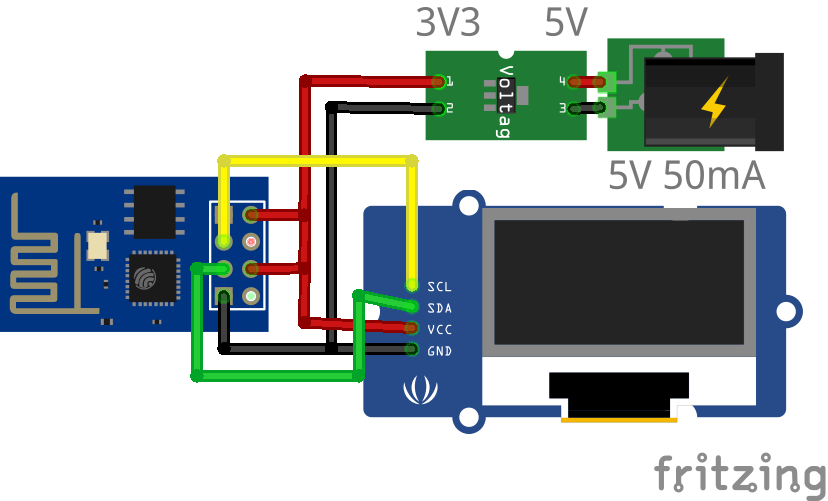
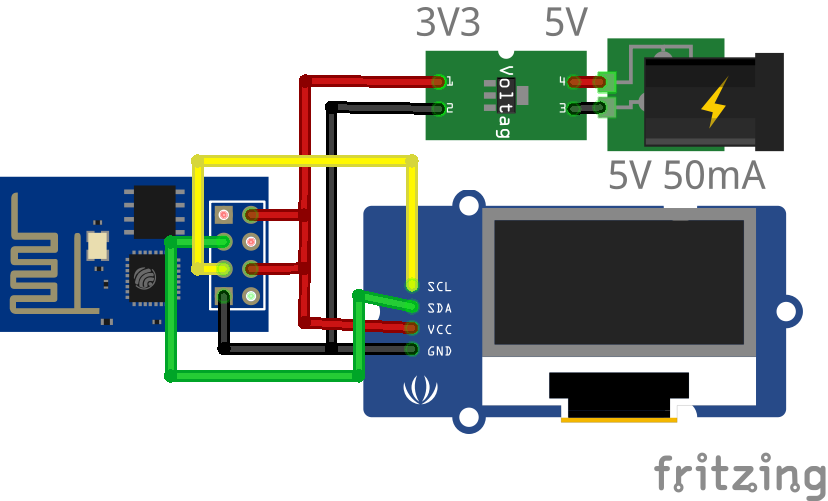
NodeMCU

Changed region(s): [[0.1812, 0.2994, 0.3019, 0.7784]]

diff --git a/ESP8266/ESP8266_oled_list_ssd1306/README.md b/ESP8266/ESP8266_oled_list_ssd1306/README.md
@@ -22,10 +22,10 @@ Install [ESP8266](http://esp8266.ru/arduino-ide-esp8266/#fast-start) (Russian) l
 
 ## Connection Map
 
-| ESP8266-1    | OLED          |
-| ------------ | ------------- |
-| GPIO0        | SCL           |
-| GPIO2        | SDA           |
+| ESP8266-1    | or NodeMCU   | OLED          |
+| ------------ | ------------ | ------------- |
+| GPIO0        | D3           | SDA           |
+| GPIO2        | D4           | SCL           |
 
 | ESP8266-1    | OLED         | AMS1117       |
 | ------------ | ------------ | ------------- |
@@ -41,3 +41,11 @@ ESP8266 does not have 5V input supply then we have to use an additional voltage 
 The prototype is made with plug-in modules for debugging convenience. Additionally, you can display the COM-port connectors (Rx, Tx, GND) to read odnovremennoego list of networks.
 
 ![ESP8266_oled_list_ssd1306_photo](https://github.com/Oestoidea/oled-spectrum-analizer/blob/master/ESP8266/ESP8266_oled_list_ssd1306/pics/ESP8266_oled_list_ssd1306_2.png)
+
+You can also use the NodeMCU card to connect the display. With the UART-TTL CH340G chip:
+
+![ESP8266_oled_list_ssd1306_photo](https://github.com/Oestoidea/oled-spectrum-analizer/blob/master/ESP8266/ESP8266_oled_list_ssd1306/pics/ESP8266_oled_list_ssd1306_3.png)
+
+With the UART-TTL CP2102 chip :
+
+![ESP8266_oled_list_ssd1306_photo](https://github.com/Oestoidea/oled-spectrum-analizer/blob/master/ESP8266/ESP8266_oled_list_ssd1306/pics/ESP8266_oled_list_ssd1306_4.png)
